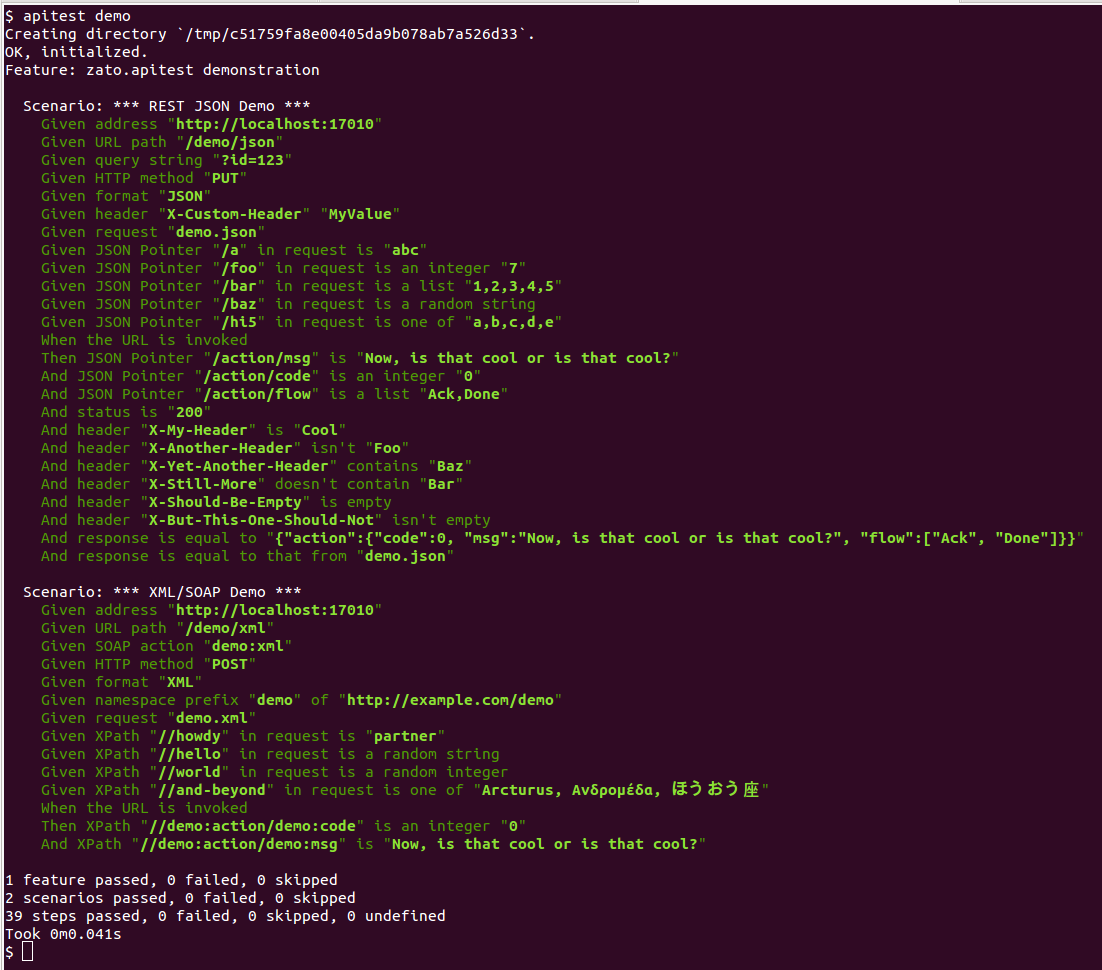
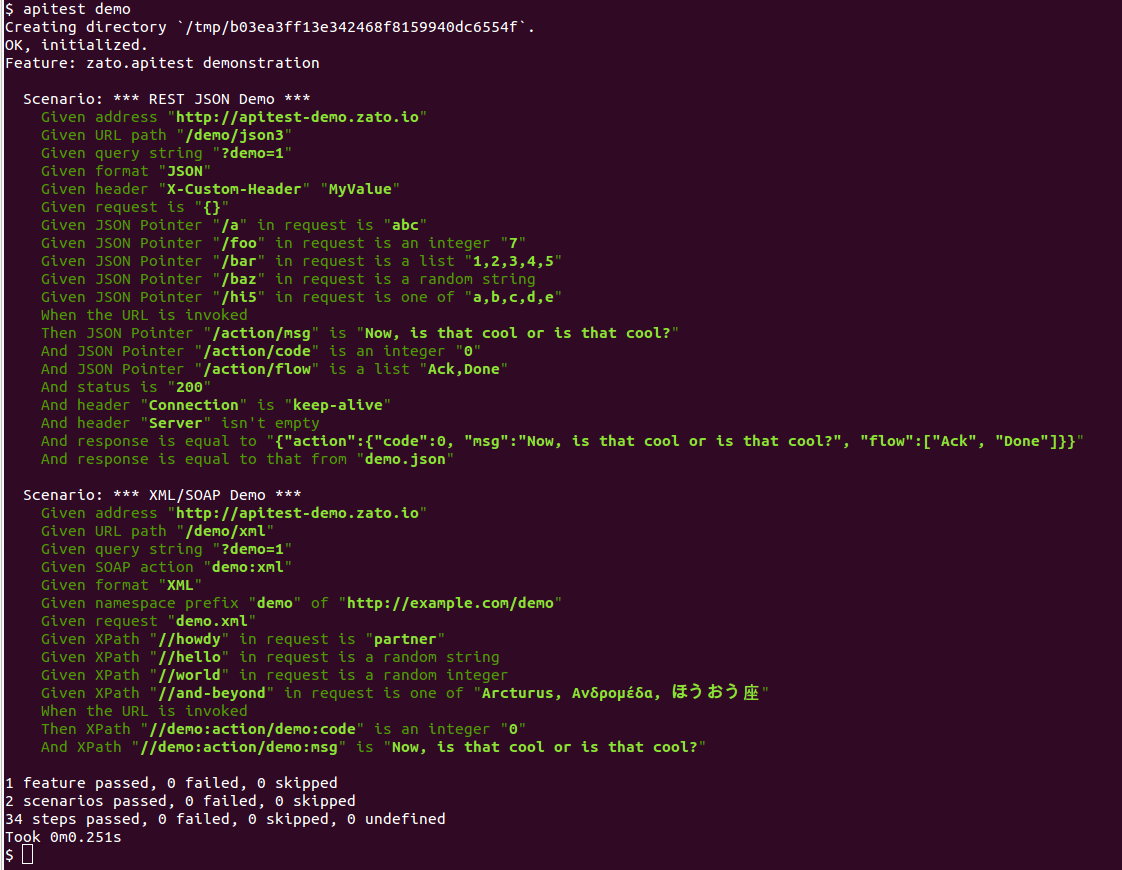
Made the demo work against a live server.

Changed region(s): [[0.0, 0.0, 1.0, 0.9931]]

diff --git a/src/zato/apitest/init.py b/src/zato/apitest/init.py
@@ -62,13 +62,12 @@ Feature: zato.apitest demonstration
 
 Scenario: *** REST JSON Demo ***
 
-    Given address "http://localhost:17010"
-    Given URL path "/demo/json"
-    Given query string "?id=123"
-    Given HTTP method "PUT"
+    Given address "http://apitest-demo.zato.io"
+    Given URL path "/demo/json3"
+    Given query string "?demo=1"
     Given format "JSON"
     Given header "X-Custom-Header" "MyValue"
-    Given request "demo.json"
+    Given request is "{}"
     Given JSON Pointer "/a" in request is "abc"
     Given JSON Pointer "/foo" in request is an integer "7"
     Given JSON Pointer "/bar" in request is a list "1,2,3,4,5"
@@ -81,12 +80,8 @@ Scenario: *** REST JSON Demo ***
     And JSON Pointer "/action/code" is an integer "0"
     And JSON Pointer "/action/flow" is a list "Ack,Done"
     And status is "200"
-    And header "X-My-Header" is "Cool"
-    And header "X-Another-Header" isn't "Foo"
-    And header "X-Yet-Another-Header" contains "Baz"
-    And header "X-Still-More" doesn't contain "Bar"
-    And header "X-Should-Be-Empty" is empty
-    And header "X-But-This-One-Should-Not" isn't empty
+    And header "Connection" is "keep-alive"
+    And header "Server" isn't empty
 
     # You can also compare responses directly inline ..
     And response is equal to "{"action":{"code":0, "msg":"Now, is that cool or is that cool?", "flow":["Ack", "Done"]}}"
@@ -96,10 +91,10 @@ Scenario: *** REST JSON Demo ***
 
 Scenario: *** XML/SOAP Demo ***
 
-    Given address "http://localhost:17010"
+    Given address "http://apitest-demo.zato.io"
     Given URL path "/demo/xml"
+    Given query string "?demo=1"
     Given SOAP action "demo:xml"
-    Given HTTP method "POST"
     Given format "XML"
     Given namespace prefix "demo" of "http://example.com/demo"
     Given request "demo.xml"
